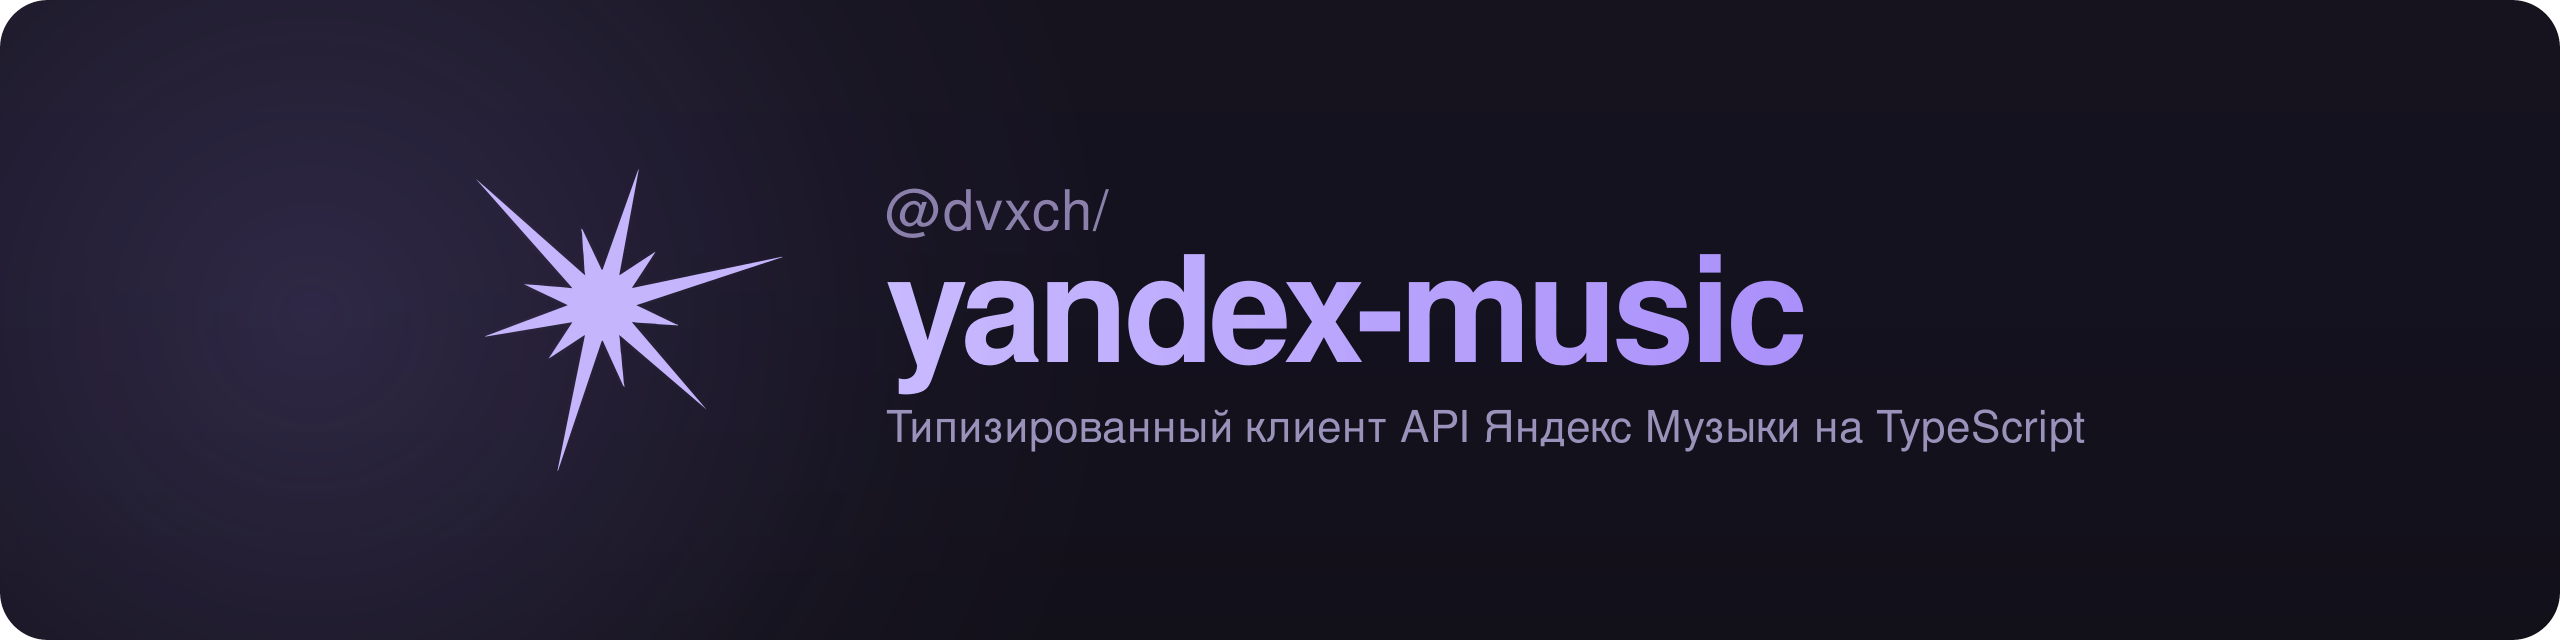
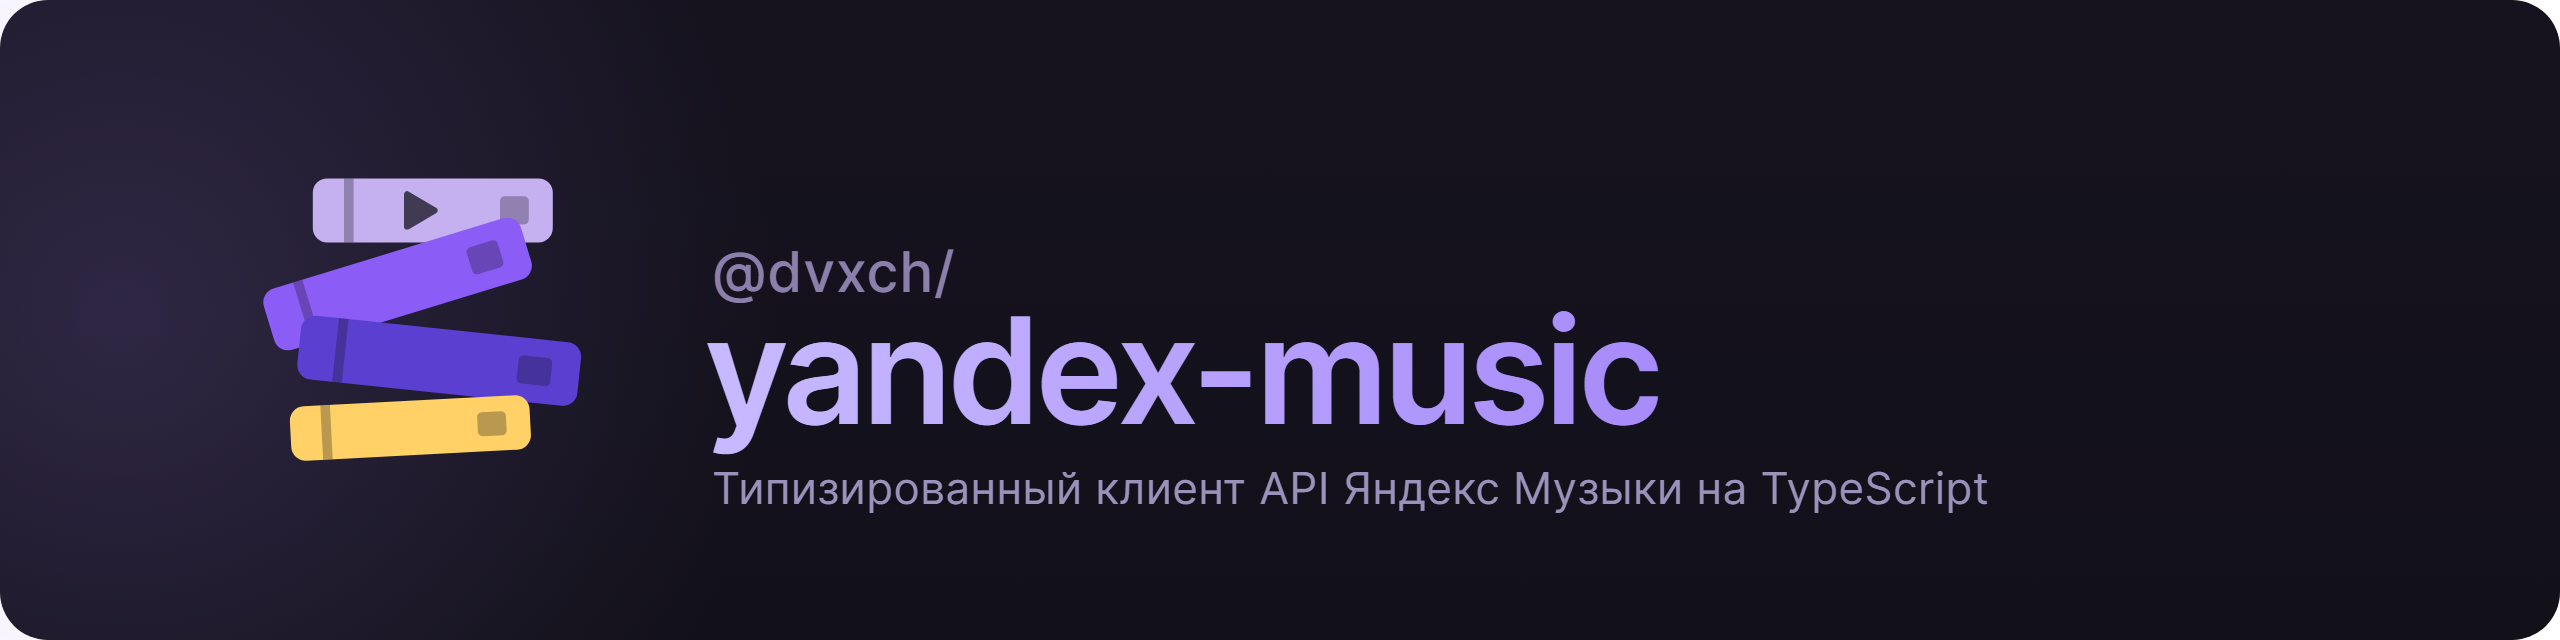
docs: новый логотип — разбросанная стопка книг (библиотека)
hero, favicon и знак перерисованы с нуля; добавлены одноцветные mark-mono-dark/light.

Changed region(s): [[0.0938, 0.2812, 0.8125, 0.7188], [0.2812, 0.7188, 0.7812, 0.8125], [0.3438, 0.2812, 0.4375, 0.375]]

diff --git a/CHANGELOG.md b/CHANGELOG.md
@@ -3,6 +3,10 @@
 All notable changes to `@dvxch/yandex-music` are documented here. The format
 follows [Keep a Changelog](https://keepachangelog.com/en/1.1.0/).
 
+## Unreleased
+
+- Новый логотип: разбросанная стопка книг («библиотека») вместо прежнего знака dvxch. Обновлены `assets/hero.svg`/`hero.png`, `favicon.svg`, `mark.svg`; добавлены одноцветные `mark-mono-dark.svg` и `mark-mono-light.svg`. Знак нарисован с нуля.
+
 ## 0.4.1 - 2026-11-27
 
 Security and reliability overhaul driven by a code review, plus endpoints found in
